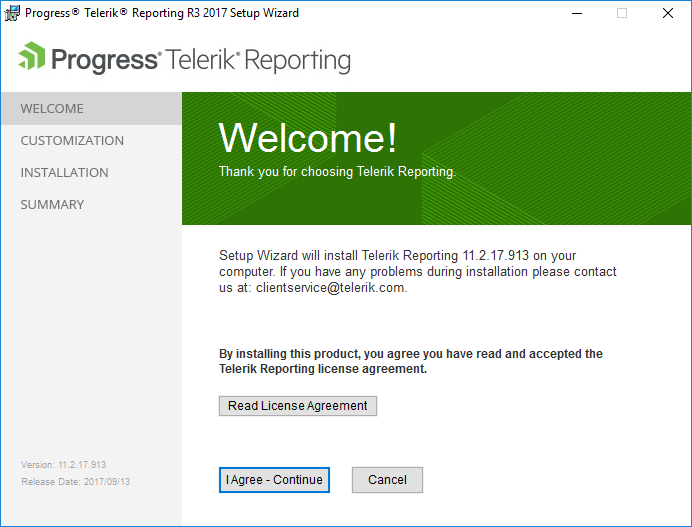
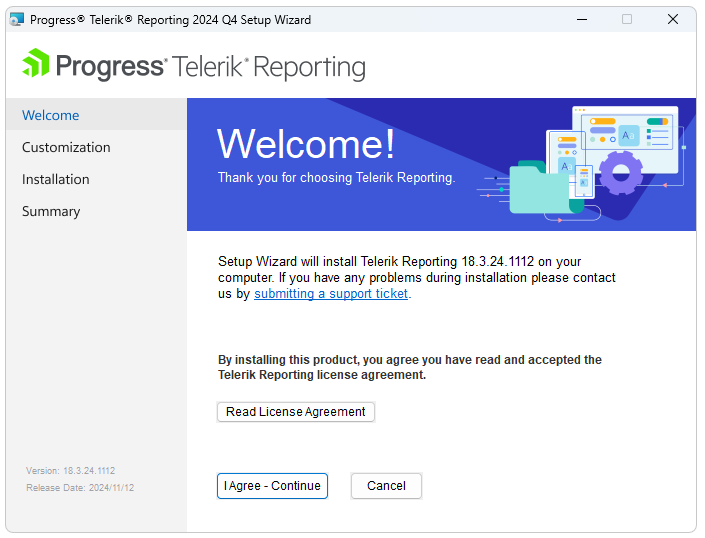
update the wizard images

diff --git a/getting-started/installation/installation-approaches.md b/getting-started/installation/installation-approaches.md
@@ -60,6 +60,10 @@ To install Telerik Reporting through the MSI automatic installer file:
 
 	![The Setup Page for the Samples Database of the Telerik Reporting Installation Wizard](images/installWizard3.png)
 
+	![Installation Step](images/installWizard4.png) 
+
+	![Finish Step](images/installWizard5.png) 
+
 ## Using NuGet Packages
 
 You can add Telerik Reporting to a project by using the [Telerik Reporting NuGet packages](https://nuget.telerik.com/v3/index.json). The NuGet packages are a single ZIP file with the `.nupkg` extension.
